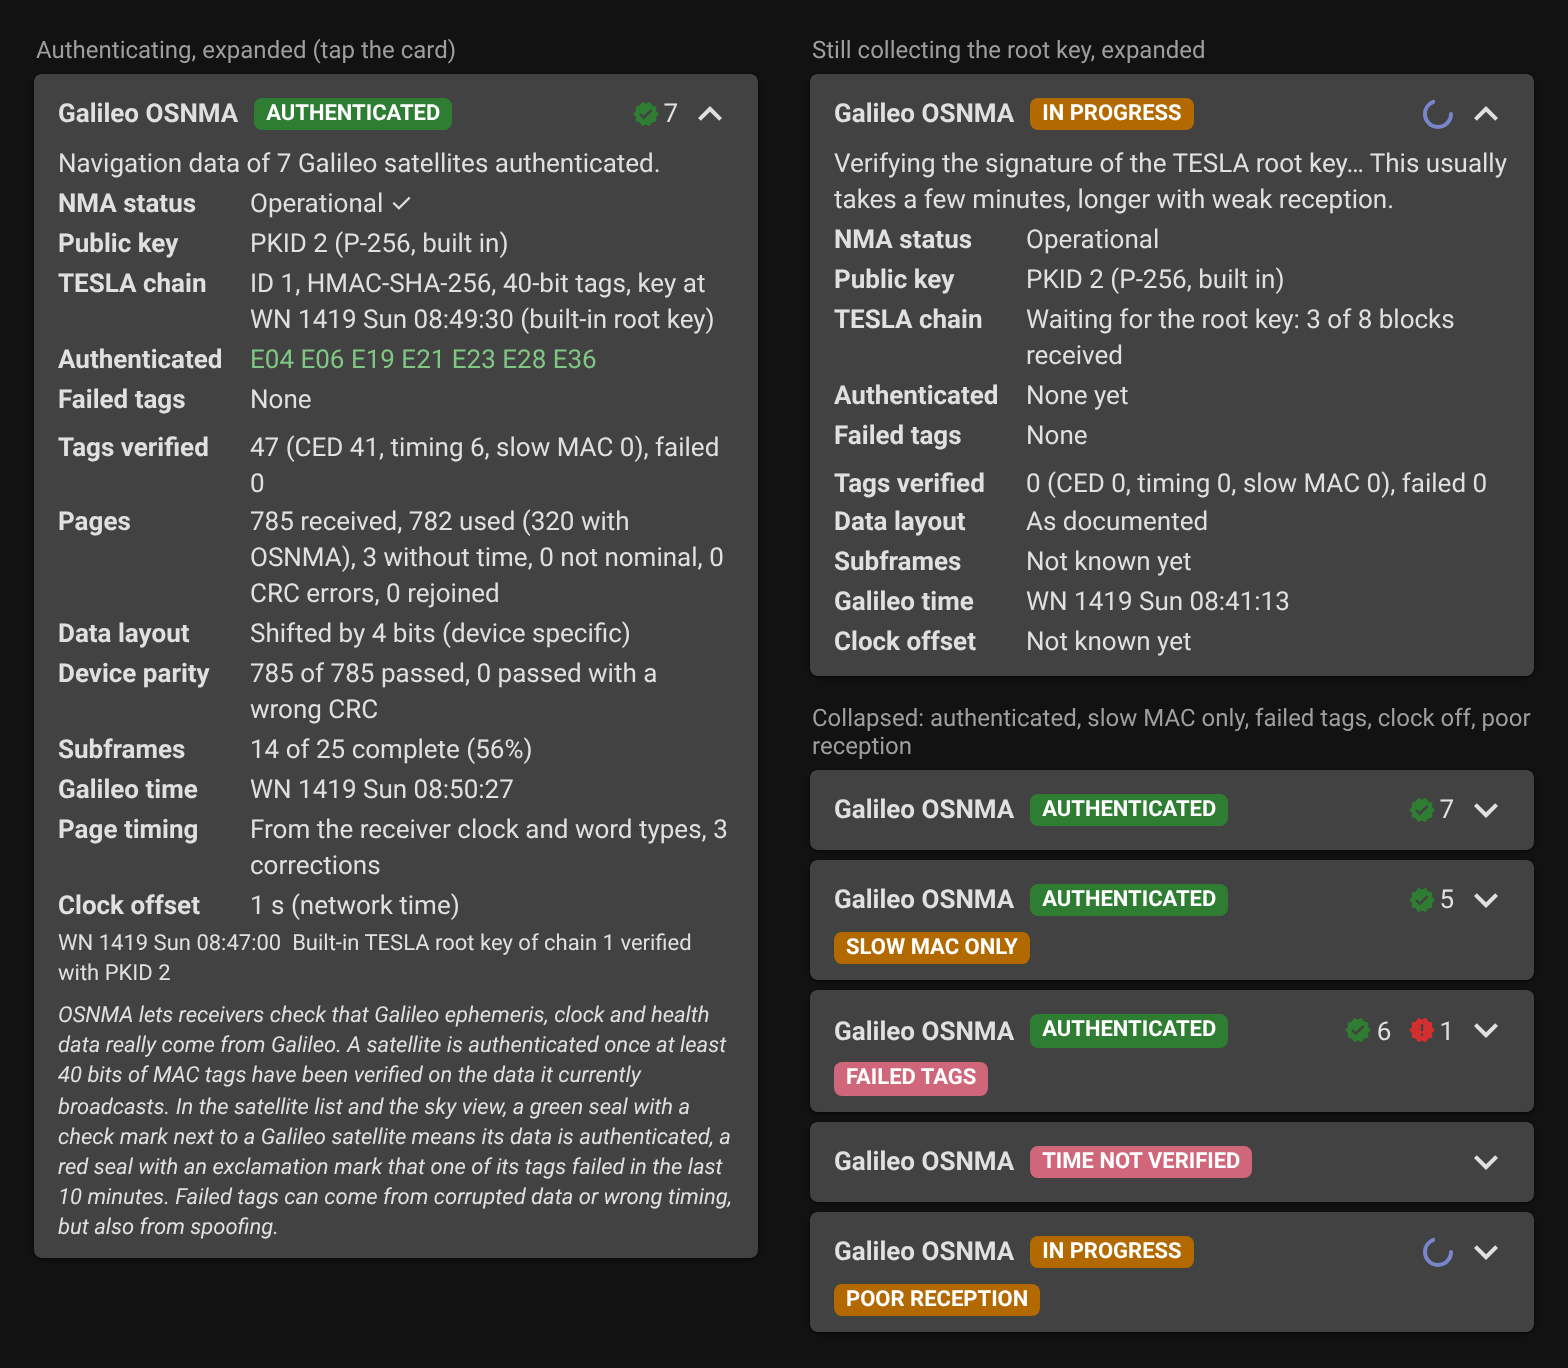
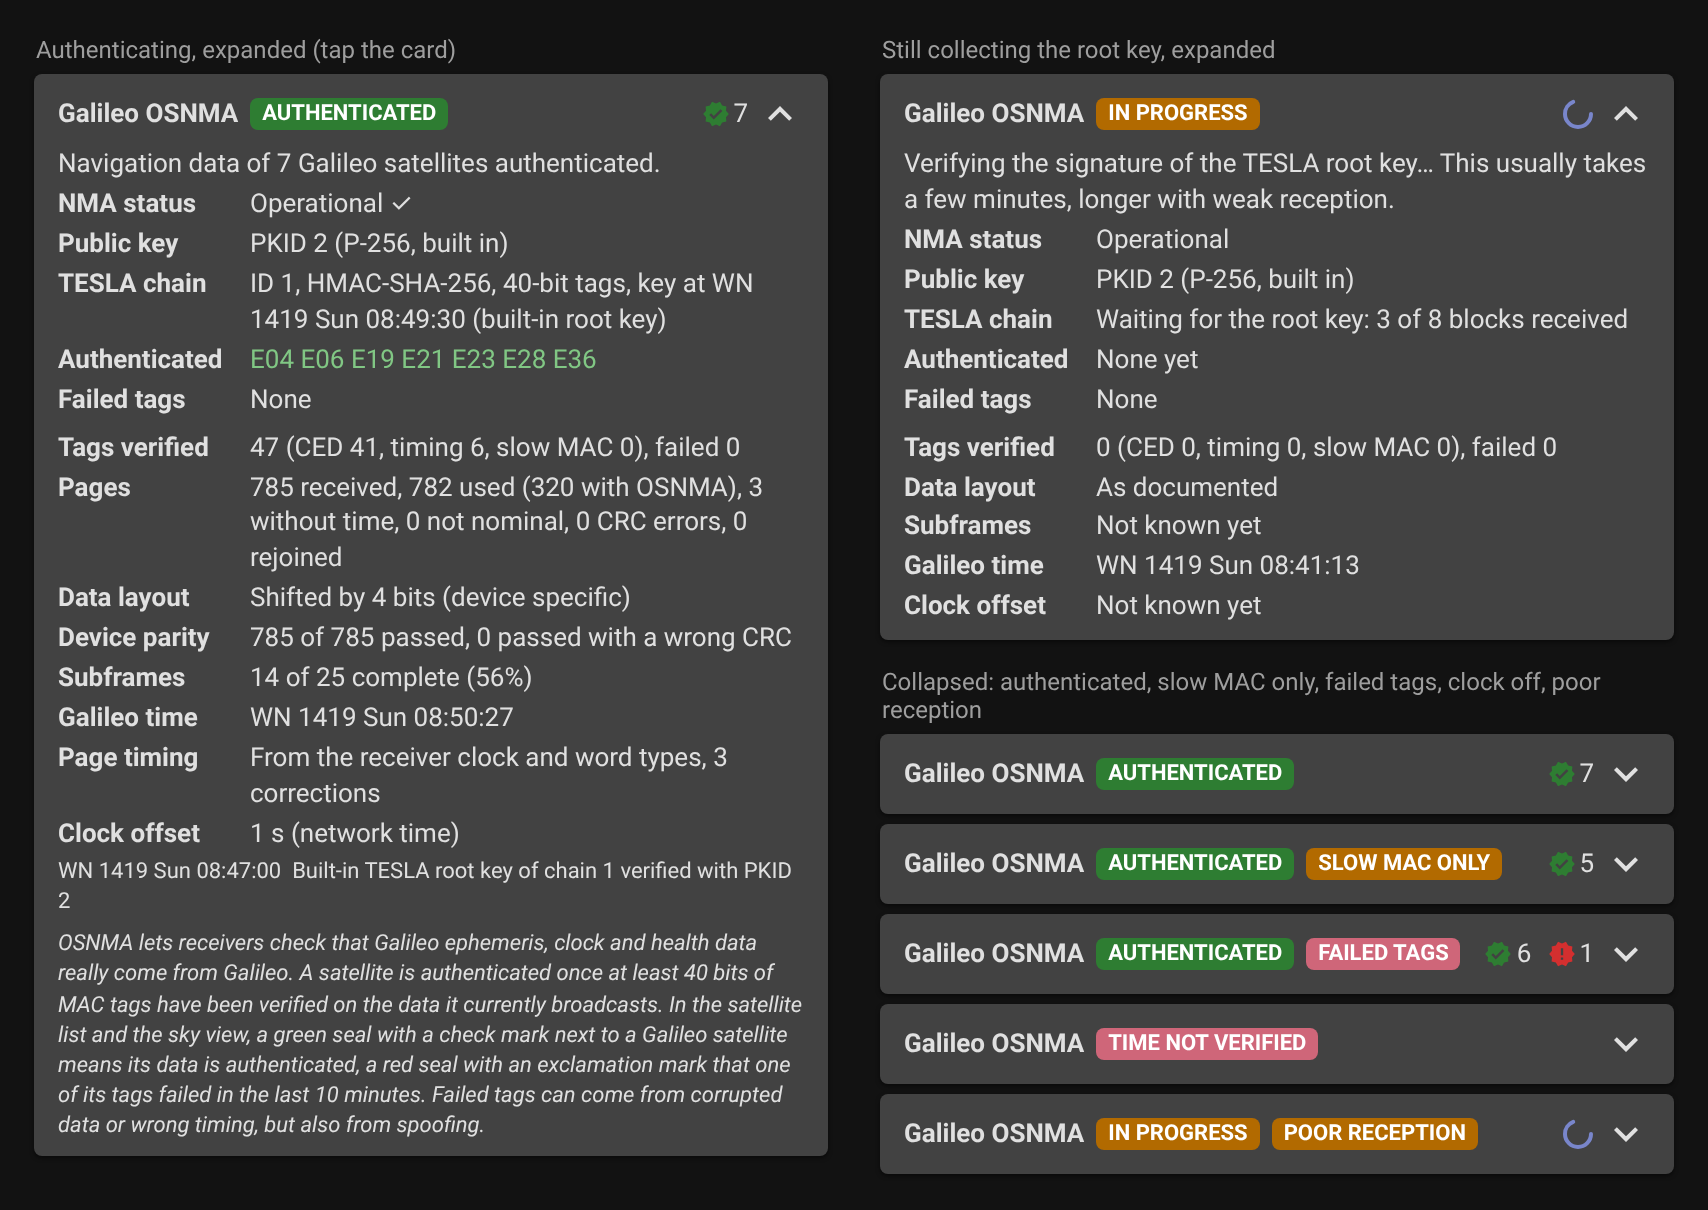
OSNMA: show warning chips next to the main state chip
Warning chips (e.g. POOR RECEPTION) now follow the main state chip on
the same line instead of a separate line below the header. A small
flow layout moves chips that don't fit to the next line on narrow
screens.

Claude-Session: https://claude.ai/code/session_01XzyNHxmXusfF5cWYLfTVVF

Changed region(s): [[0.0, 0.0306, 1.0, 0.9785]]

diff --git a/GPSTest/src/main/java/com/android/gpstest/ui/status/OsnmaCard.kt b/GPSTest/src/main/java/com/android/gpstest/ui/status/OsnmaCard.kt
@@ -42,6 +42,9 @@ import androidx.compose.ui.Modifier
 import androidx.compose.ui.draw.clip
 import androidx.compose.ui.draw.rotate
 import androidx.compose.ui.graphics.Color
+import androidx.compose.ui.layout.Layout
+import androidx.compose.ui.layout.Placeable
+import androidx.compose.ui.platform.LocalDensity
 import androidx.compose.ui.res.painterResource
 import androidx.compose.ui.res.stringResource
 import androidx.compose.ui.semantics.contentDescription
@@ -110,7 +113,6 @@ fun OsnmaCard(state: OsnmaUiState) {
         Column(modifier = Modifier.padding(start = 12.dp, end = 12.dp, top = 8.dp, bottom = 8.dp)) {
             val cardState = state.cardState
             Header(state, cardState, expanded)
-            if (cardState.warnings.isNotEmpty()) WarningChips(cardState.warnings)
             if (expanded) {
                 val description = phaseDescription(state)
                 Text(
@@ -165,15 +167,17 @@ private var osnmaCardExpanded = false
 private fun Header(state: OsnmaUiState, cardState: OsnmaCardState, expanded: Boolean) {
     val status = state.status
     Row(verticalAlignment = Alignment.CenterVertically) {
-        Text(
-            text = stringResource(R.string.osnma_title),
-            fontWeight = FontWeight.Bold,
-            fontSize = 13.sp,
-            maxLines = 1
-        )
-        Spacer(modifier = Modifier.width(8.dp))
-        MainStateChip(cardState.main)
-        Spacer(modifier = Modifier.weight(1f))
+        // Title and chips on one line; chips that don't fit continue on the next line
+        ChipFlow(modifier = Modifier.weight(1f)) {
+            Text(
+                text = stringResource(R.string.osnma_title),
+                fontWeight = FontWeight.Bold,
+                fontSize = 13.sp,
+                maxLines = 1
+            )
+            MainStateChip(cardState.main)
+            cardState.warnings.forEach { WarningChip(it) }
+        }
         val authenticated = status?.authenticatedSatellites?.size ?: 0
         val failed = status?.recentFailures()?.size ?: 0
         if (authenticated > 0) SatelliteCount(OsnmaMark.AUTHENTICATED, authenticated)
@@ -246,19 +250,57 @@ private fun MainStateChip(main: OsnmaMainState) {
     Chip(stringResource(textId), color)
 }
 
-/** One chip per warning (see [OsnmaWarning]), in a row below the header */
+/** The chip of a warning (see [OsnmaWarning]), shown next to the main state chip */
 @Composable
-private fun WarningChips(warnings: Set<OsnmaWarning>) {
-    Row(modifier = Modifier.padding(top = 4.dp)) {
-        warnings.forEachIndexed { i, warning ->
-            if (i > 0) Spacer(modifier = Modifier.width(4.dp))
-            val (color, textId) = when (warning) {
-                OsnmaWarning.FAILED_TAGS ->
-                    Pair(MaterialTheme.colors.error, R.string.osnma_chip_failures)
-                OsnmaWarning.POOR_RECEPTION -> Pair(Amber, R.string.osnma_chip_poor_reception)
-                OsnmaWarning.SLOW_MAC_ONLY -> Pair(Amber, R.string.osnma_chip_slow_mac)
+private fun WarningChip(warning: OsnmaWarning) {
+    val (color, textId) = when (warning) {
+        OsnmaWarning.FAILED_TAGS -> Pair(MaterialTheme.colors.error, R.string.osnma_chip_failures)
+        OsnmaWarning.POOR_RECEPTION -> Pair(Amber, R.string.osnma_chip_poor_reception)
+        OsnmaWarning.SLOW_MAC_ONLY -> Pair(Amber, R.string.osnma_chip_slow_mac)
+    }
+    Chip(stringResource(textId), color)
+}
+
+/**
+ * Places its children side by side, vertically centered, and continues on the next line when
+ * the width runs out (like FlowRow, which this Compose version doesn't have)
+ */
+@Composable
+private fun ChipFlow(modifier: Modifier = Modifier, content: @Composable () -> Unit) {
+    val gapPx = with(LocalDensity.current) { 6.dp.roundToPx() }
+    Layout(content = content, modifier = modifier) { measurables, constraints ->
+        val placeables = measurables.map { it.measure(constraints.copy(minWidth = 0)) }
+        // Split into lines that fit the available width
+        val lines = mutableListOf<MutableList<Placeable>>()
+        var lineWidth = 0
+        placeables.forEach { p ->
+            val line = lines.lastOrNull()
+            if (line == null || lineWidth + gapPx + p.width > constraints.maxWidth) {
+                lines.add(mutableListOf(p))
+                lineWidth = p.width
+            } else {
+                line.add(p)
+                lineWidth += gapPx + p.width
             }
-            Chip(stringResource(textId), color)
+        }
+        val lineHeights = lines.map { line -> line.maxOf { it.height } }
+        val height = lineHeights.sum() + gapPx / 2 * (lines.size - 1).coerceAtLeast(0)
+        val contentWidth = lines.maxOfOrNull { line ->
+            line.sumOf { it.width } + gapPx * (line.size - 1)
+        } ?: 0
+        layout(
+            contentWidth.coerceIn(constraints.minWidth, constraints.maxWidth),
+            height.coerceIn(constraints.minHeight, constraints.maxHeight)
+        ) {
+            var y = 0
+            lines.forEachIndexed { i, line ->
+                var x = 0
+                line.forEach { p ->
+                    p.placeRelative(x, y + (lineHeights[i] - p.height) / 2)
+                    x += p.width + gapPx
+                }
+                y += lineHeights[i] + gapPx / 2
+            }
         }
     }
 }

diff --git a/OSNMA.md b/OSNMA.md
@@ -45,8 +45,8 @@ tag failed in the last 10 minutes).*
 | Authenticated | Satellites whose current ephemeris, clock and health data is authenticated. That means at least 40 bits of MAC tags were verified on the data the satellite is broadcasting right now. |
 | Failed tags | Satellites with a tag that failed verification in the last 10 minutes, with the count. |
 
-The card is a single line by default (plus a line of warning chips, if any): the main state
-chip, the number of authenticated satellites (green seal) and of satellites with failed tags
+The card is a single line by default: the main state chip and any warning chips next to it
+(on narrow screens, chips that don't fit continue on a second line), the number of authenticated satellites (green seal) and of satellites with failed tags
 (red seal), a spinner while authentication is in progress, and a chevron. Tap it to expand: a
 sentence on the current state (with how long it usually takes while in progress), the fields
 above, tag counts by type (CED, timing,
@@ -68,7 +68,7 @@ The card shows exactly one **main state** chip:
 | **DON'T USE** (red) | Galileo set the OSNMA status to "don't use". |
 | **ALERT** (red) | An OSNMA alert message revoked all keys. |
 
-Below the header, a chip is added for each **warning** that applies. They can occur in any
+Next to the main state chip, a chip is added for each **warning** that applies. They can occur in any
 combination, and together with any main state:
 
 | Warning | Meaning |
